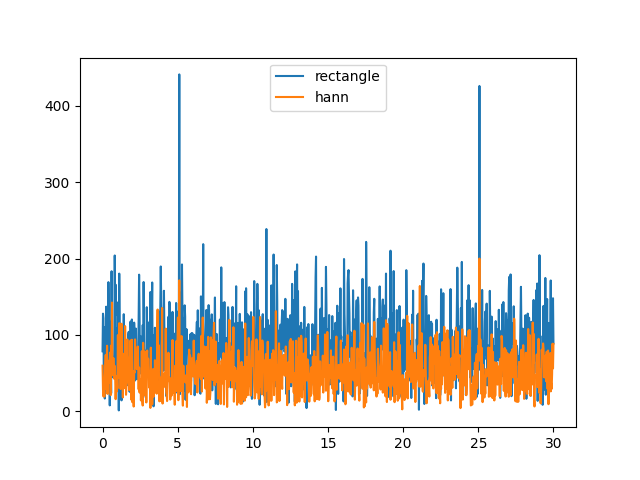
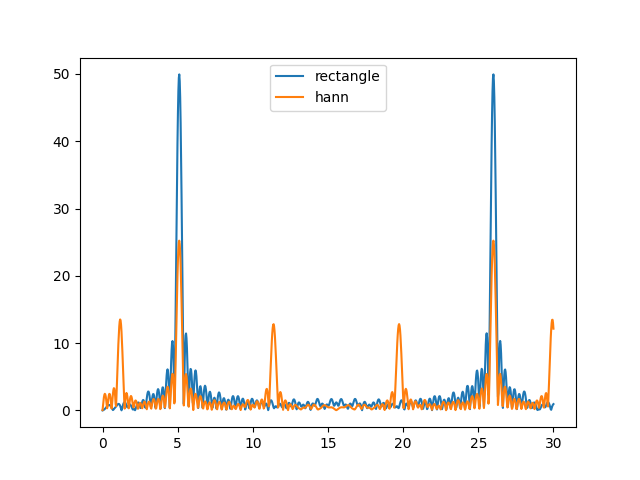
Update lesson 12

diff --git a/lesson_12/fourier.py b/lesson_12/fourier.py
@@ -31,7 +31,7 @@ if __name__ == "__main__":
     print("for hann window h(t) = 0.5 * (1 - cos(2 * pi * t))")
 
     def f(t: float) -> float:
-        return np.sin(5.1 * t) + 0.002 * np.sin(25.5 * t) + np.random.uniform(-5, 5)
+        return np.sin(5.1 * t) + 0.002 * np.sin(25.5 * t) + np.random.uniform(-0.1, 0.1)
 
     def rectangle(t: float) -> float:  # pylint: disable=unused-argument
         return 1
@@ -39,9 +39,9 @@ if __name__ == "__main__":
     def hann(t: float) -> float:
         return 0.5 * (1 - np.cos(2 * np.pi * t))
 
-    a = 0
-    b = 100 * np.pi
-    n = 1000
+    a = -10
+    b = 10
+    n = 100
 
     w = np.linspace(0, 30, 1000)
 
